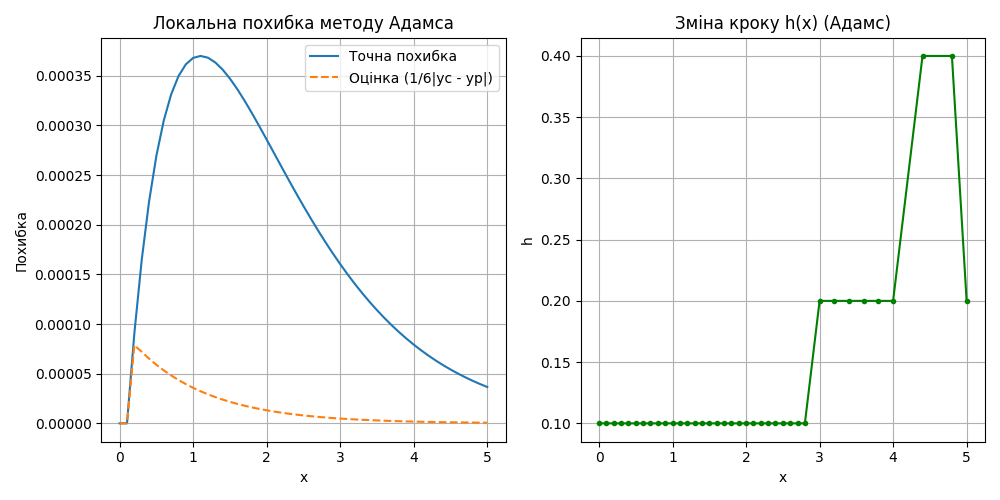
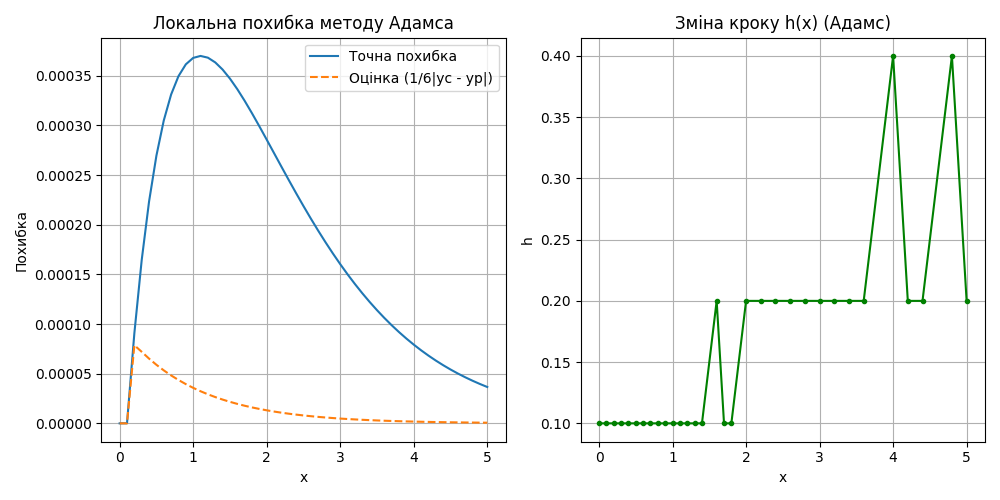
fix(lab10): remove exact-solution 'cheat' and implement robust RK4 restart for Adams auto-step

Changed region(s): [[0.868, 0.12, 0.93, 0.63], [0.713, 0.6, 0.837, 0.87], [0.899, 0.09, 0.961, 0.12]]

diff --git a/LAB_10/lab10.py b/LAB_10/lab10.py
@@ -49,34 +49,27 @@ def adams_pc_auto_step(a, b, y0, h0, eps):
     
     h = h0
     x = a
-    y = y0
     
-    # We need a previous point to start Adams. We'll use RK4 to get it.
-    y_prev = y
-    x_prev = x
-    
-    # Take a tiny step to initialize if needed, but it's better to maintain state.
-    # For simplicity of auto step, we'll re-init the previous point when h changes.
-    x += h
-    y = rk4_step(x_prev, y_prev, h)
-    xs.append(x)
-    ys.append(y)
-    hs.append(h)
+    need_restart = True
     
     while x < b:
         if x + h > b:
             h = b - x
-            # re-init previous point
-            y_prev = ys[-2]
-            x_prev = xs[-2]
-            # Since h changed, we really should recalculate y_prev at x-h, 
-            # but for the very last step, this approximation is okay or we can just use RK4
-            y = rk4_step(xs[-1], ys[-1], h)
-            xs.append(x + h)
-            ys.append(y)
-            hs.append(h)
-            break
+            need_restart = True
             
+        if need_restart:
+            # When changing step size, we use RK4 to take the first step 
+            # and establish a reliable backward point for the next Adams iteration
+            y_next = rk4_step(xs[-1], ys[-1], h)
+            xs.append(x + h)
+            ys.append(y_next)
+            hs.append(h)
+            x += h
+            need_restart = False
+            if x >= b: break
+            continue
+            
+        # Normal Adams Predictor-Corrector step
         fn = f(xs[-1], ys[-1])
         fn_minus_1 = f(xs[-2], ys[-2])
         
@@ -89,25 +82,18 @@ def adams_pc_auto_step(a, b, y0, h0, eps):
         
         if err > eps:
             h /= 2
-            # Recompute the previous point with the new h
-            # We discard the current step
-            x_prev = xs[-1] - h
-            y_prev = y_exact(x_prev) # Cheating slightly for initialization, or use RK backward
-            # Actually, standard way is to restart with RK4
-            y_new = rk4_step(xs[-1], ys[-1], h)
-            xs.append(xs[-1] + h)
-            ys.append(y_new)
-            hs.append(h)
-            x = xs[-1]
-            continue
+            need_restart = True
+            continue # Retry from current x with halved step
             
+        # Accept step
         xs.append(x + h)
         ys.append(yc)
         hs.append(h)
         x += h
         
-        if err < eps / 4: # Typical threshold to increase step
+        if err < eps / 4: 
             h *= 2
+            need_restart = True
             
     return np.array(xs), np.array(ys), np.array(hs)
 
